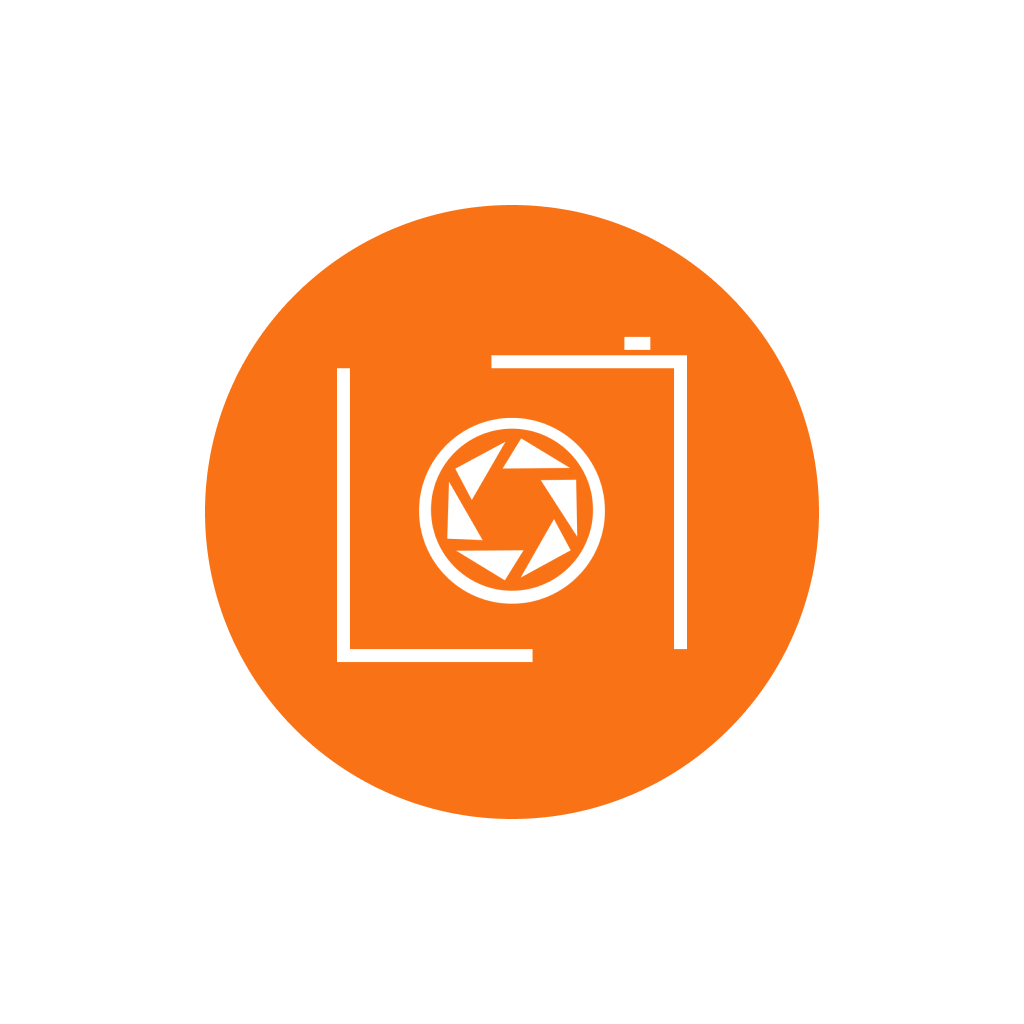
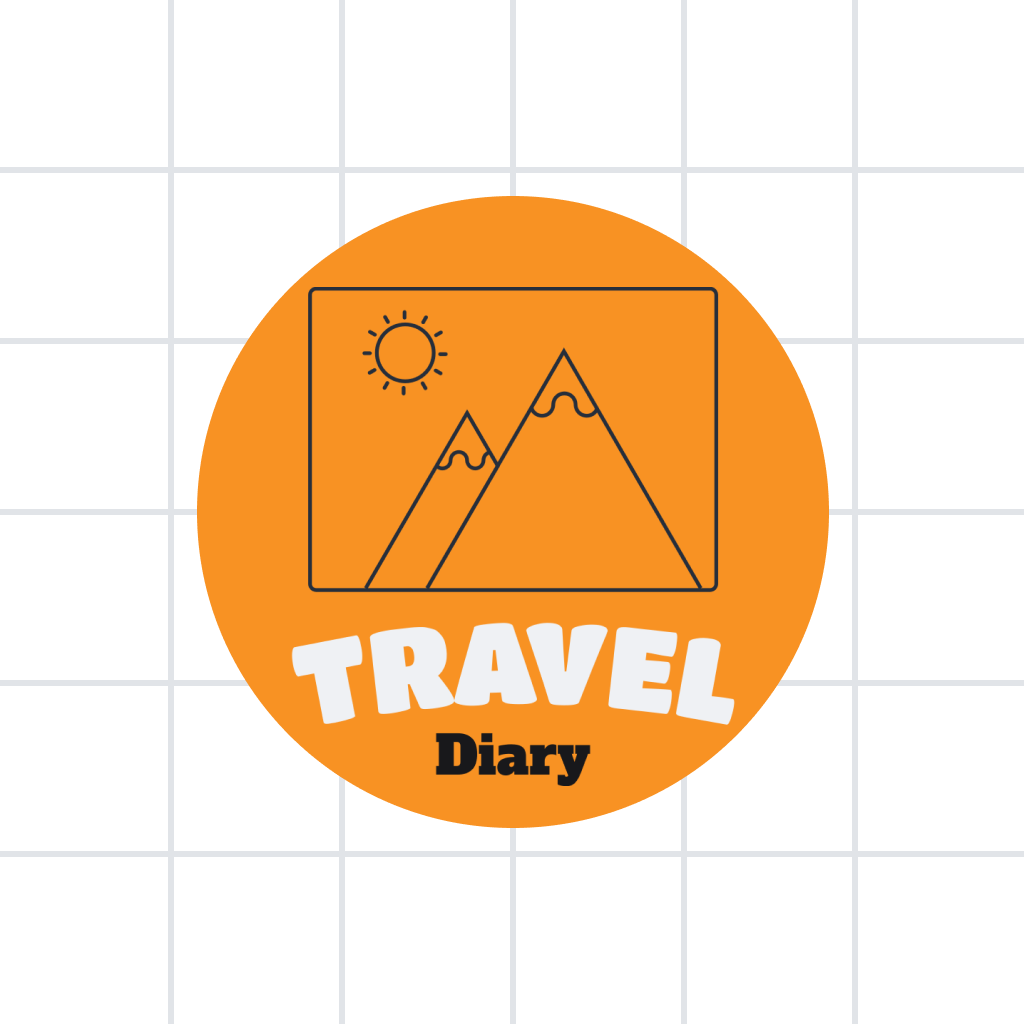
redesign home screen

diff --git a/src/api/storage.js b/src/api/storage.js
@@ -2,34 +2,39 @@ import { getAuth } from 'firebase/auth';
 import { getDownloadURL, getStorage, uploadBytes, ref } from 'firebase/storage';
 
 export const uploadPhoto = async (uri) => {
-  if (uri.startsWith('https')) {
-    return uri;
+  try {
+    // If the URI starts with "https", assume it's already a remote URL and return it as is
+    if (uri.startsWith('https')) {
+      return uri;
+    }
+
+    const blob = await new Promise((resolve, reject) => {
+      const xhr = new XMLHttpRequest();
+      xhr.onload = function () {
+        resolve(xhr.response);
+      };
+      xhr.onerror = function (e) {
+        console.log('blob error:', e);
+        reject(new Error('Failed to upload picture'));
+      };
+      xhr.responseType = 'blob';
+      xhr.open('GET', uri, true);
+      xhr.send(null);
+    });
+
+    const filename = uri.split('/').pop();
+    const storageRef = ref(
+      getStorage(),
+      `/${getAuth().currentUser.uid}/${filename}`
+    );
+    await uploadBytes(storageRef, blob);
+
+    blob.close();
+
+    const downloadURL = await getDownloadURL(storageRef);
+
+    return downloadURL;
+  } catch (e) {
+    throw new Error('Failed to upload picture');
   }
-
-  const blob = await new Promise((resolve, reject) => {
-    const xhr = new XMLHttpRequest();
-    xhr.onload = function () {
-      resolve(xhr.response);
-    };
-    xhr.onerror = function (e) {
-      console.log('blob error:', e);
-      reject(new Error('Picture upload is failed'));
-    };
-    xhr.responseType = 'blob';
-    xhr.open('GET', uri, true);
-    xhr.send(null);
-  });
-
-  const filename = uri.split('/').pop();
-  const storageRef = ref(
-    getStorage(),
-    `/${getAuth().currentUser.uid}/${filename}`
-  );
-  await uploadBytes(storageRef, blob);
-
-  blob.close();
-
-  await getDownloadURL(storageRef);
-
-  return uri;
 };

diff --git a/src/screens/HomeScreen.js b/src/screens/HomeScreen.js
@@ -20,7 +20,7 @@ const HomeScreen = () => {
     <View style={[styles.container, { paddingTop: top }]}>
       <View style={styles.topContainer}>
         <Image source={require('../../assets/icon.png')} style={styles.icon} />
-        <Text style={styles.title}>PlacePhotos</Text>
+        <Text style={styles.title}>Travel Diary</Text>
       </View>
 
       <View style={styles.buttonContainer}>
@@ -60,12 +60,12 @@ const styles = StyleSheet.create({
     marginBottom: 20,
   },
   icon: {
-    width: 60,
-    height: 60,
+    width: 90,
+    height: 90,
     borderRadius: 30,
   },
   title: {
-    fontSize: 30,
+    fontSize: 35,
     fontWeight: '700',
     marginLeft: 10,
   },
